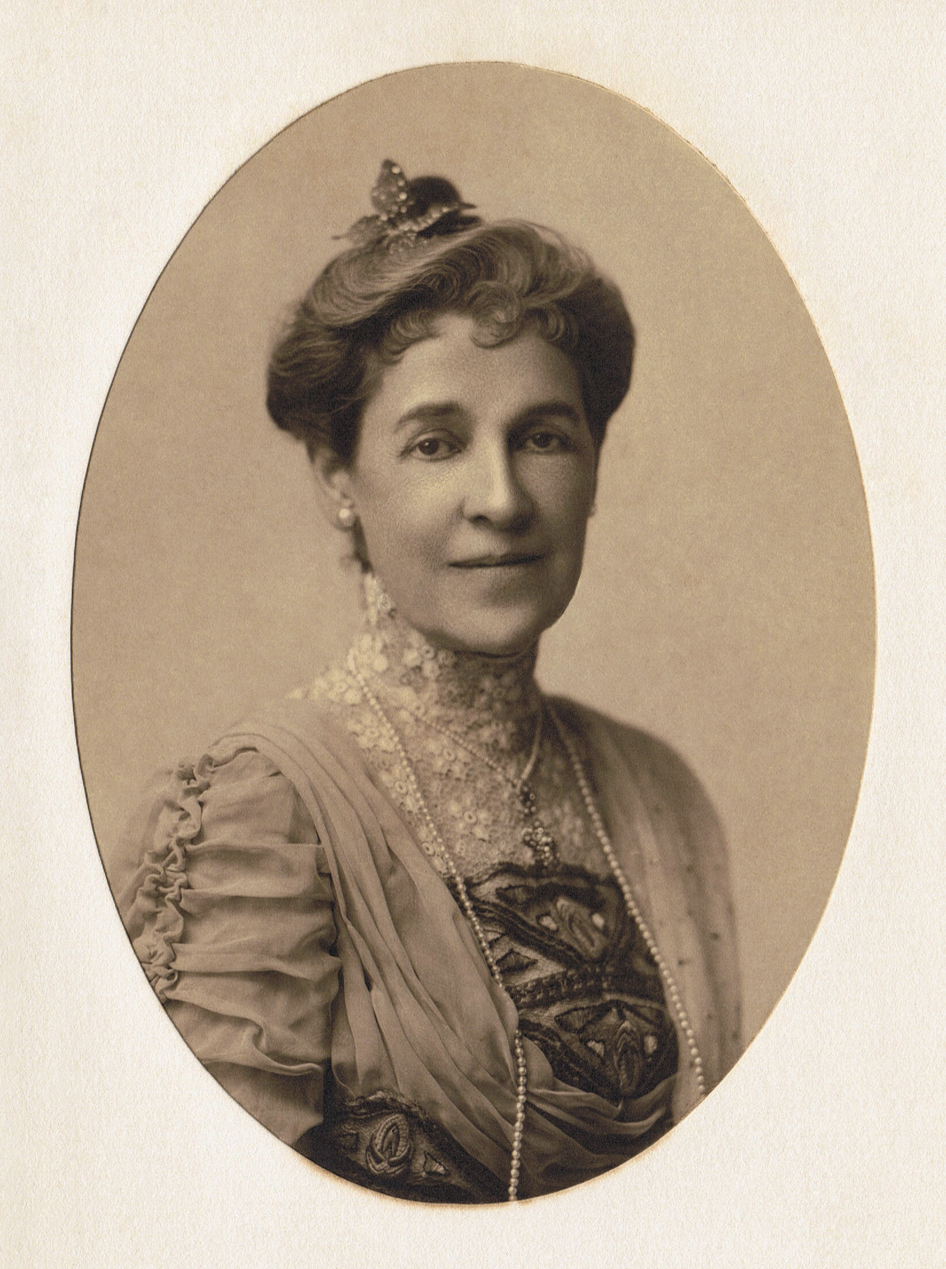
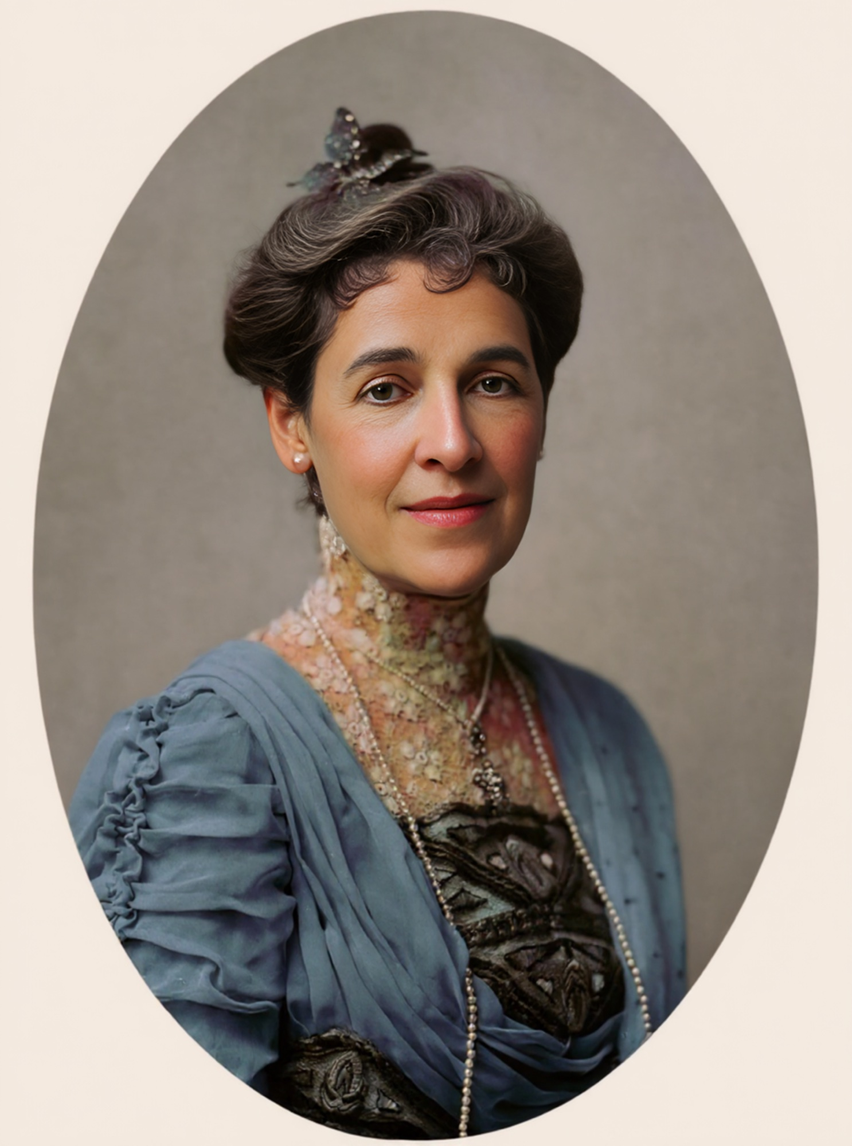
feat(gallery): replace downloaded after photos with own AI-generated restorations
- Replace 4 archive_reference entries with product_case using our AI output
- woolf-1902: own colorization (ai-draft-1776691424981)
- earle-coates: own colorization (clearly Florence Earle Coates)
- carver-1910: own colorization (clearly George Washington Carver)
- curtis-inupiat: own colorization (ai-draft-1776565063587)
- Fix worthington-1910 afterSrc (missing file, now ai-draft-1776474634148)
- All after images optimized: PNG→JPG, max 2000px, 379-810KB each
- Sync caseStudies.ts worthington afterSrc path (.png → .jpg)

diff --git a/src/config/landing.ts b/src/config/landing.ts
@@ -96,7 +96,7 @@ export const landingGallery: GallerySample[] = [
     id: 'worthington-1910',
     caption: 'Worthington family portrait, 1910',
     beforeSrc: '/examples/old-photos/old-family-worthington-1910-B.png',
-    afterSrc: '/examples/new-photos/old-family-worthington-1910-A.png',
+    afterSrc: '/examples/new-photos/old-family-worthington-1910-A.jpg',
     caseStudyHref: '/case-studies/worthington-family-portrait-1910-restoration',
     hasRealPair: true,
     sourceKind: 'product_case',
@@ -110,28 +110,28 @@ export const landingGallery: GallerySample[] = [
     sourceKind: 'archive_reference',
   },
   {
-    id: 'cameron-met',
-    caption: 'Portrait by Julia Margaret Cameron, 19th c.',
-    beforeSrc: '/examples/old-photos/pair-cameron-met-before.jpg',
-    afterSrc: '/examples/new-photos/pair-cameron-met-after.jpg',
+    id: 'earle-coates',
+    caption: 'Poet Florence Earle Coates, c. 1900',
+    beforeSrc: '/examples/old-photos/pair-earle-coates-before.jpg',
+    afterSrc: '/examples/new-photos/pair-earle-coates-after.jpg',
     hasRealPair: true,
-    sourceKind: 'archive_reference',
+    sourceKind: 'product_case',
   },
   {
-    id: 'nielsen-1908',
-    caption: 'Composer Carl Nielsen, c. 1908',
-    beforeSrc: '/examples/old-photos/pair-nielsen-1908-before.jpg',
-    afterSrc: '/examples/new-photos/pair-nielsen-1908-after.jpg',
+    id: 'carver-1910',
+    caption: 'George Washington Carver, c. 1910',
+    beforeSrc: '/examples/old-photos/pair-carver-1910-before.jpg',
+    afterSrc: '/examples/new-photos/pair-carver-1910-after.jpg',
     hasRealPair: true,
-    sourceKind: 'archive_reference',
+    sourceKind: 'product_case',
   },
   {
-    id: 'li-fu-lee',
-    caption: 'Li Fu Lee at MIT radio lab, 1925',
-    beforeSrc: '/examples/old-photos/pair-li-fu-lee-before.jpg',
-    afterSrc: '/examples/new-photos/pair-li-fu-lee-after.jpg',
+    id: 'curtis-inupiat',
+    caption: 'Inupiat family, Edward S. Curtis, c. 1929',
+    beforeSrc: '/examples/old-photos/pair-curtis-inupiat-before.jpg',
+    afterSrc: '/examples/new-photos/pair-curtis-inupiat-after.jpg',
     hasRealPair: true,
-    sourceKind: 'archive_reference',
+    sourceKind: 'product_case',
   },
 ]
 
@@ -206,7 +206,7 @@ export const landingPricing = {
     'Start free in your browser, try our AI with a watermark-free preview, or hand the photo to a real retoucher for full face accuracy.',
   tiers: landingPricingTiers,
   footnote:
-    'No subscription. Paid orders are one-time payments via Paddle. VAT and taxes handled automatically.',
+    'No subscription. Paid orders are one-time payments via PayPal. VAT and taxes handled automatically.',
 }
 
 export const landingTestimonials = [

diff --git a/src/config/caseStudies.ts b/src/config/caseStudies.ts
@@ -89,7 +89,7 @@ export const caseStudies: CaseStudy[] = [
     whyItMatters:
       'This is a strong search-intent case for customers who want to restore an old family portrait but are nervous about over-editing.',
     beforeSrc: '/examples/old-photos/old-family-worthington-1910-B.png',
-    afterSrc: '/examples/new-photos/old-family-worthington-1910-A.png',
+    afterSrc: '/examples/new-photos/old-family-worthington-1910-A.jpg',
     beforeAlt:
       'Before restoration: faded 1910 Worthington family portrait with low clarity and visible age wear.',
     afterAlt:
